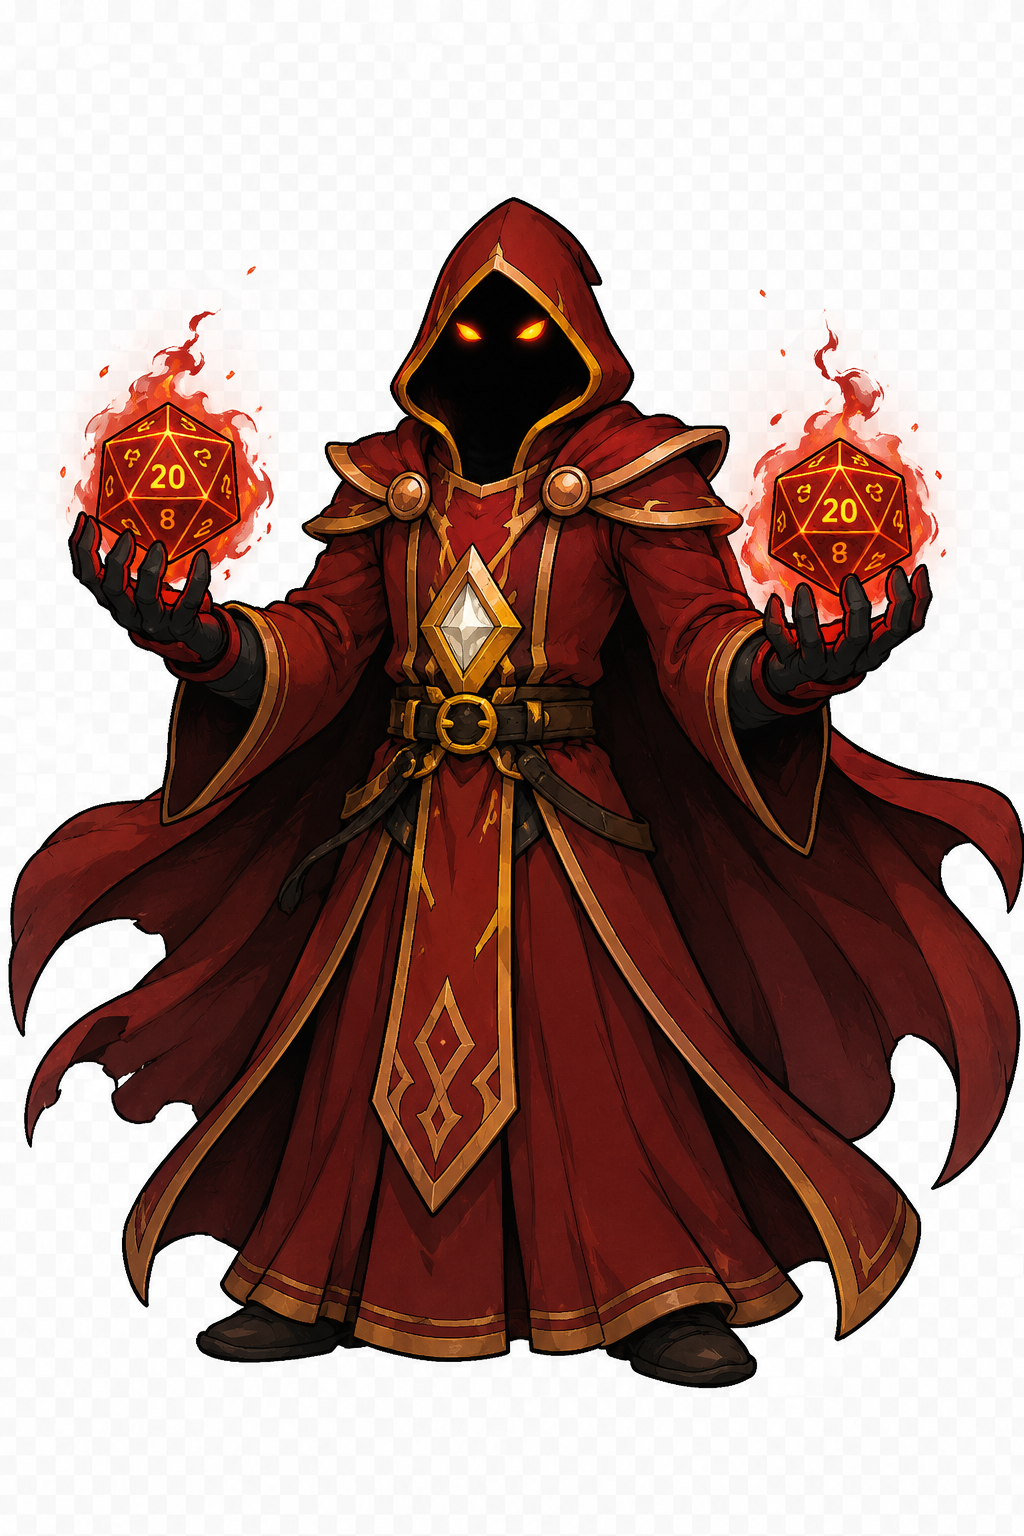
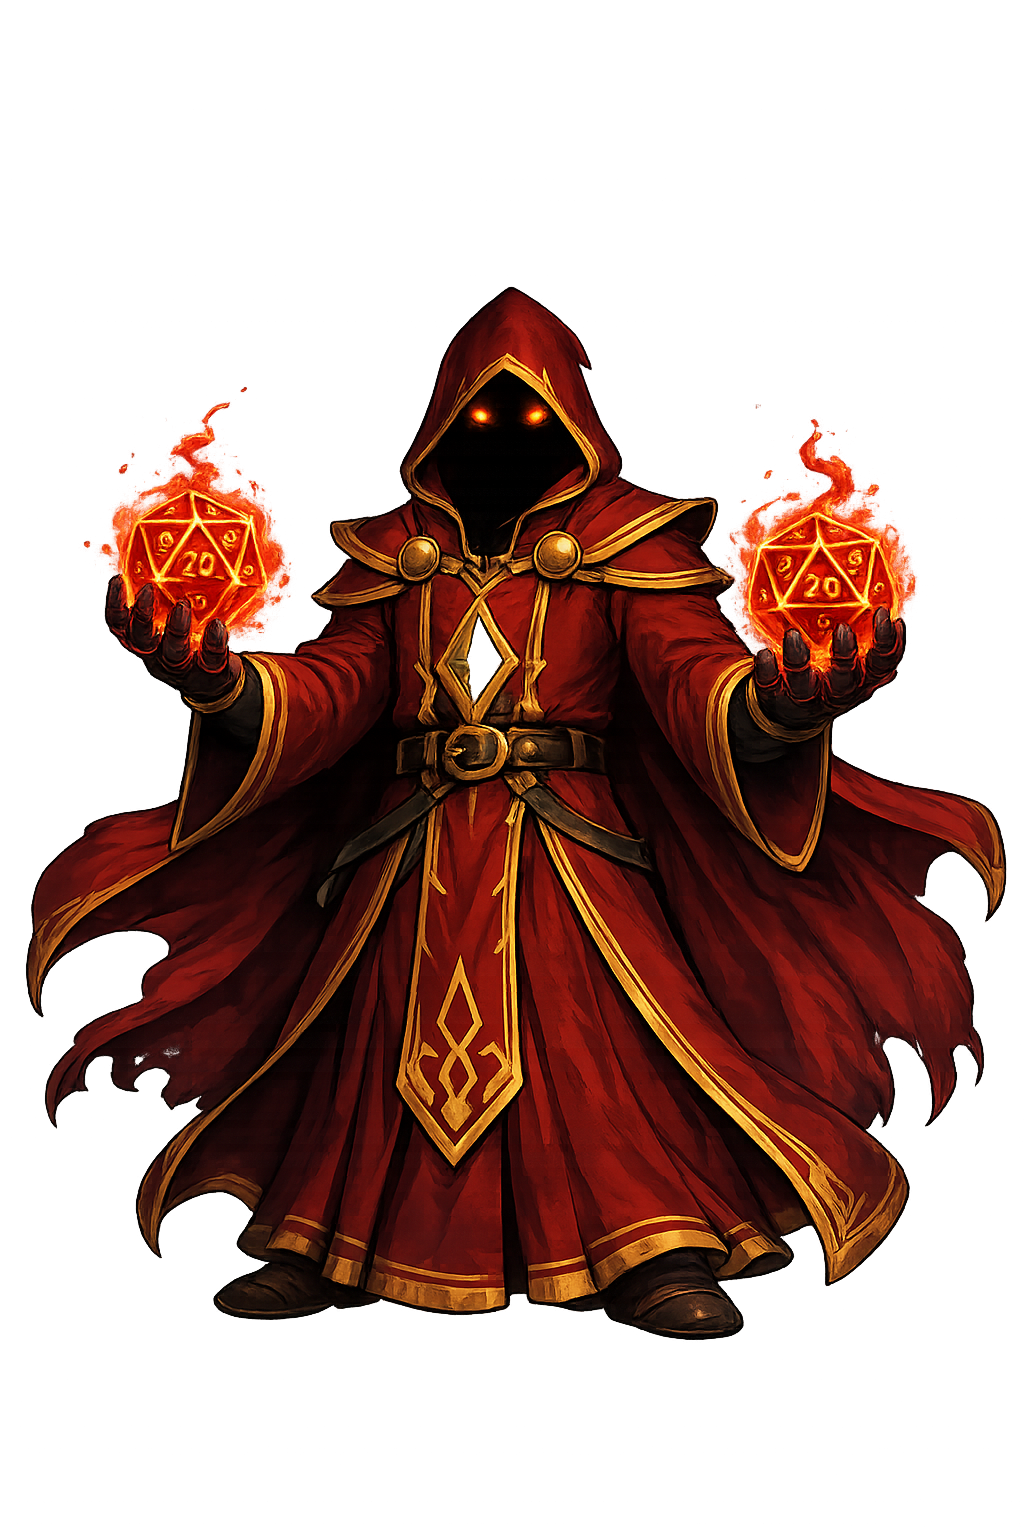
Removed background of images and added tasking list. Implemented GitIgnore.

diff --git a/.notes/master-tasking-list.md b/.notes/master-tasking-list.md
@@ -1,0 +1,7 @@
+# Master Tasking List
+
+## Matt
+- [ ] Boss Image Integration
+
+## Alex
+- [ ] Simple 'Minimalistic' View